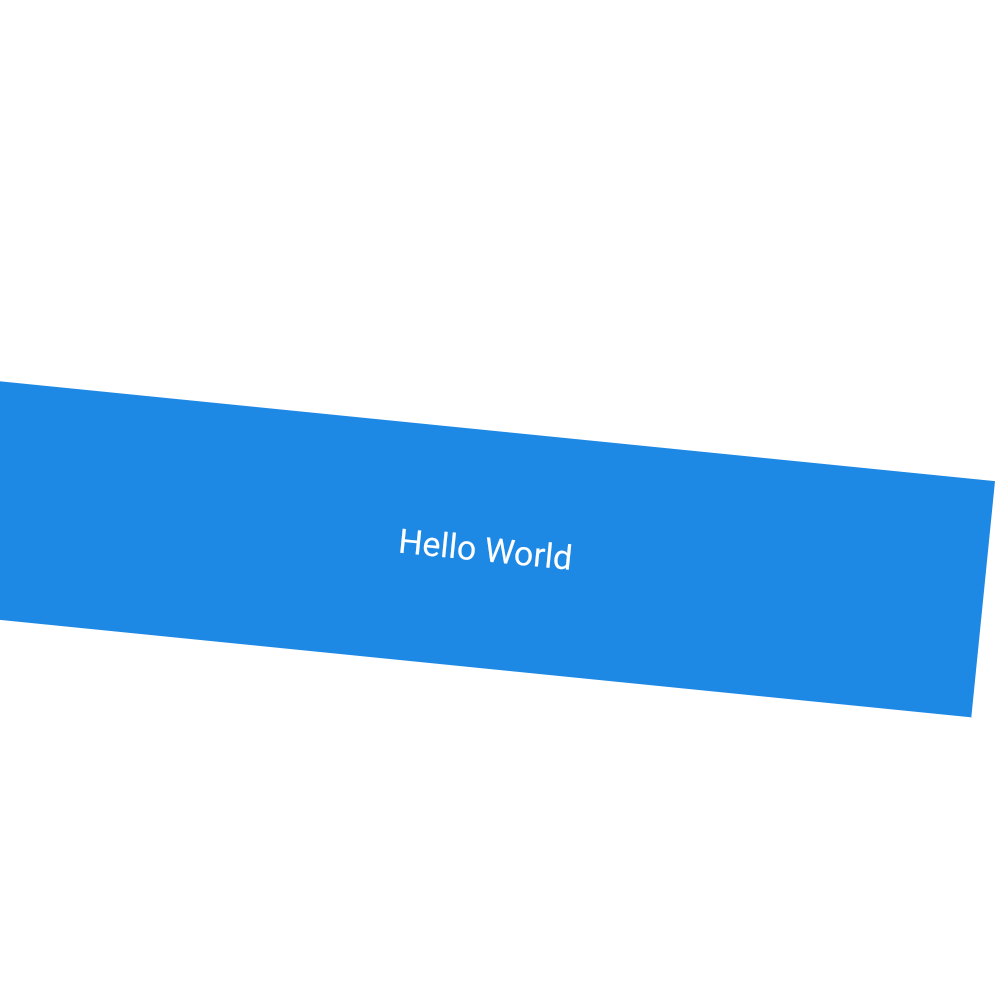
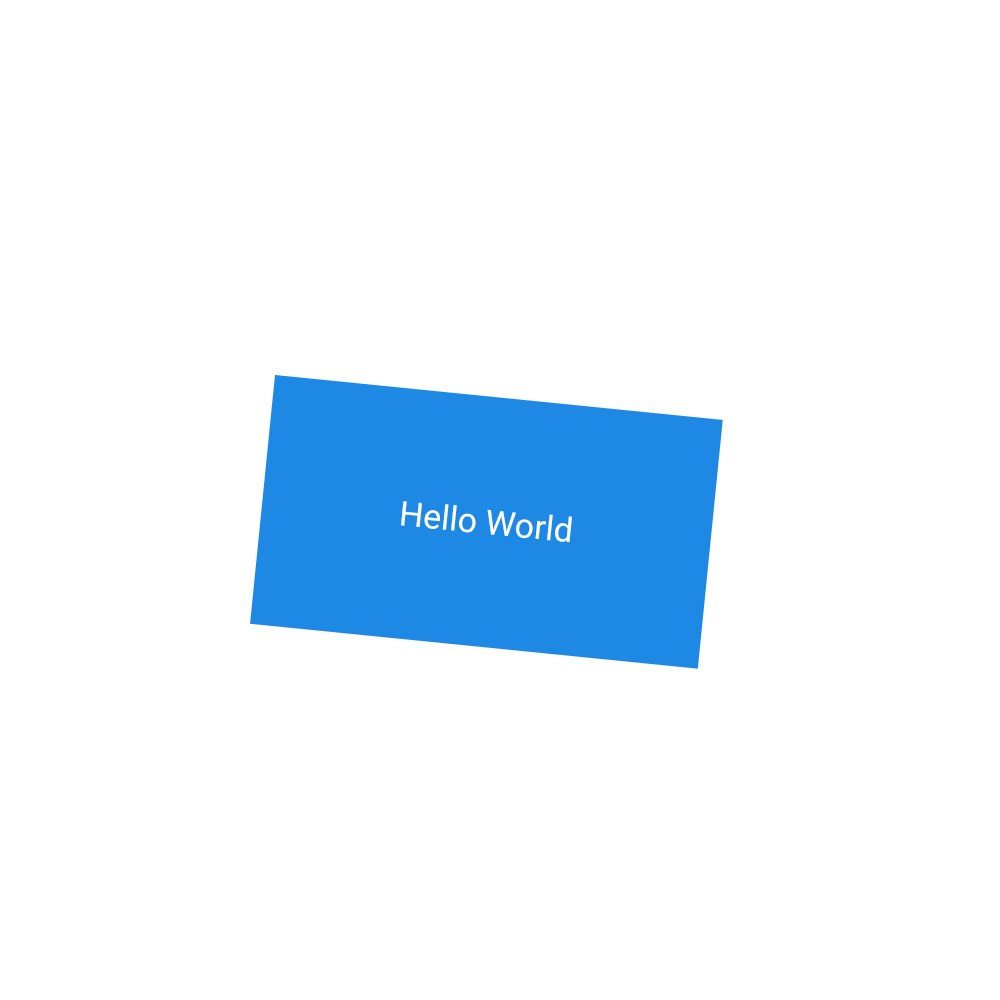
Fixed constraints of the container diagram so it fits better inline on the API Docs site.

Changed region(s): [[0.0, 0.372, 1.0, 0.713], [0.403, 0.496, 0.589, 0.589]]

diff --git a/packages/diagrams/lib/src/container.dart b/packages/diagrams/lib/src/container.dart
@@ -35,10 +35,8 @@ class ContainerDiagram extends StatelessWidget implements DiagramMetadata {
       case 'container_b':
         return Center(
           child: Container(
-            constraints: BoxConstraints.expand(
-              height:
-              Theme.of(context).textTheme.display1.fontSize * 1.1 + 200.0,
-            ),
+            width: 450,
+            height: 250,
             padding: const EdgeInsets.all(8.0),
             color: Colors.blue[600],
             alignment: Alignment.center,
